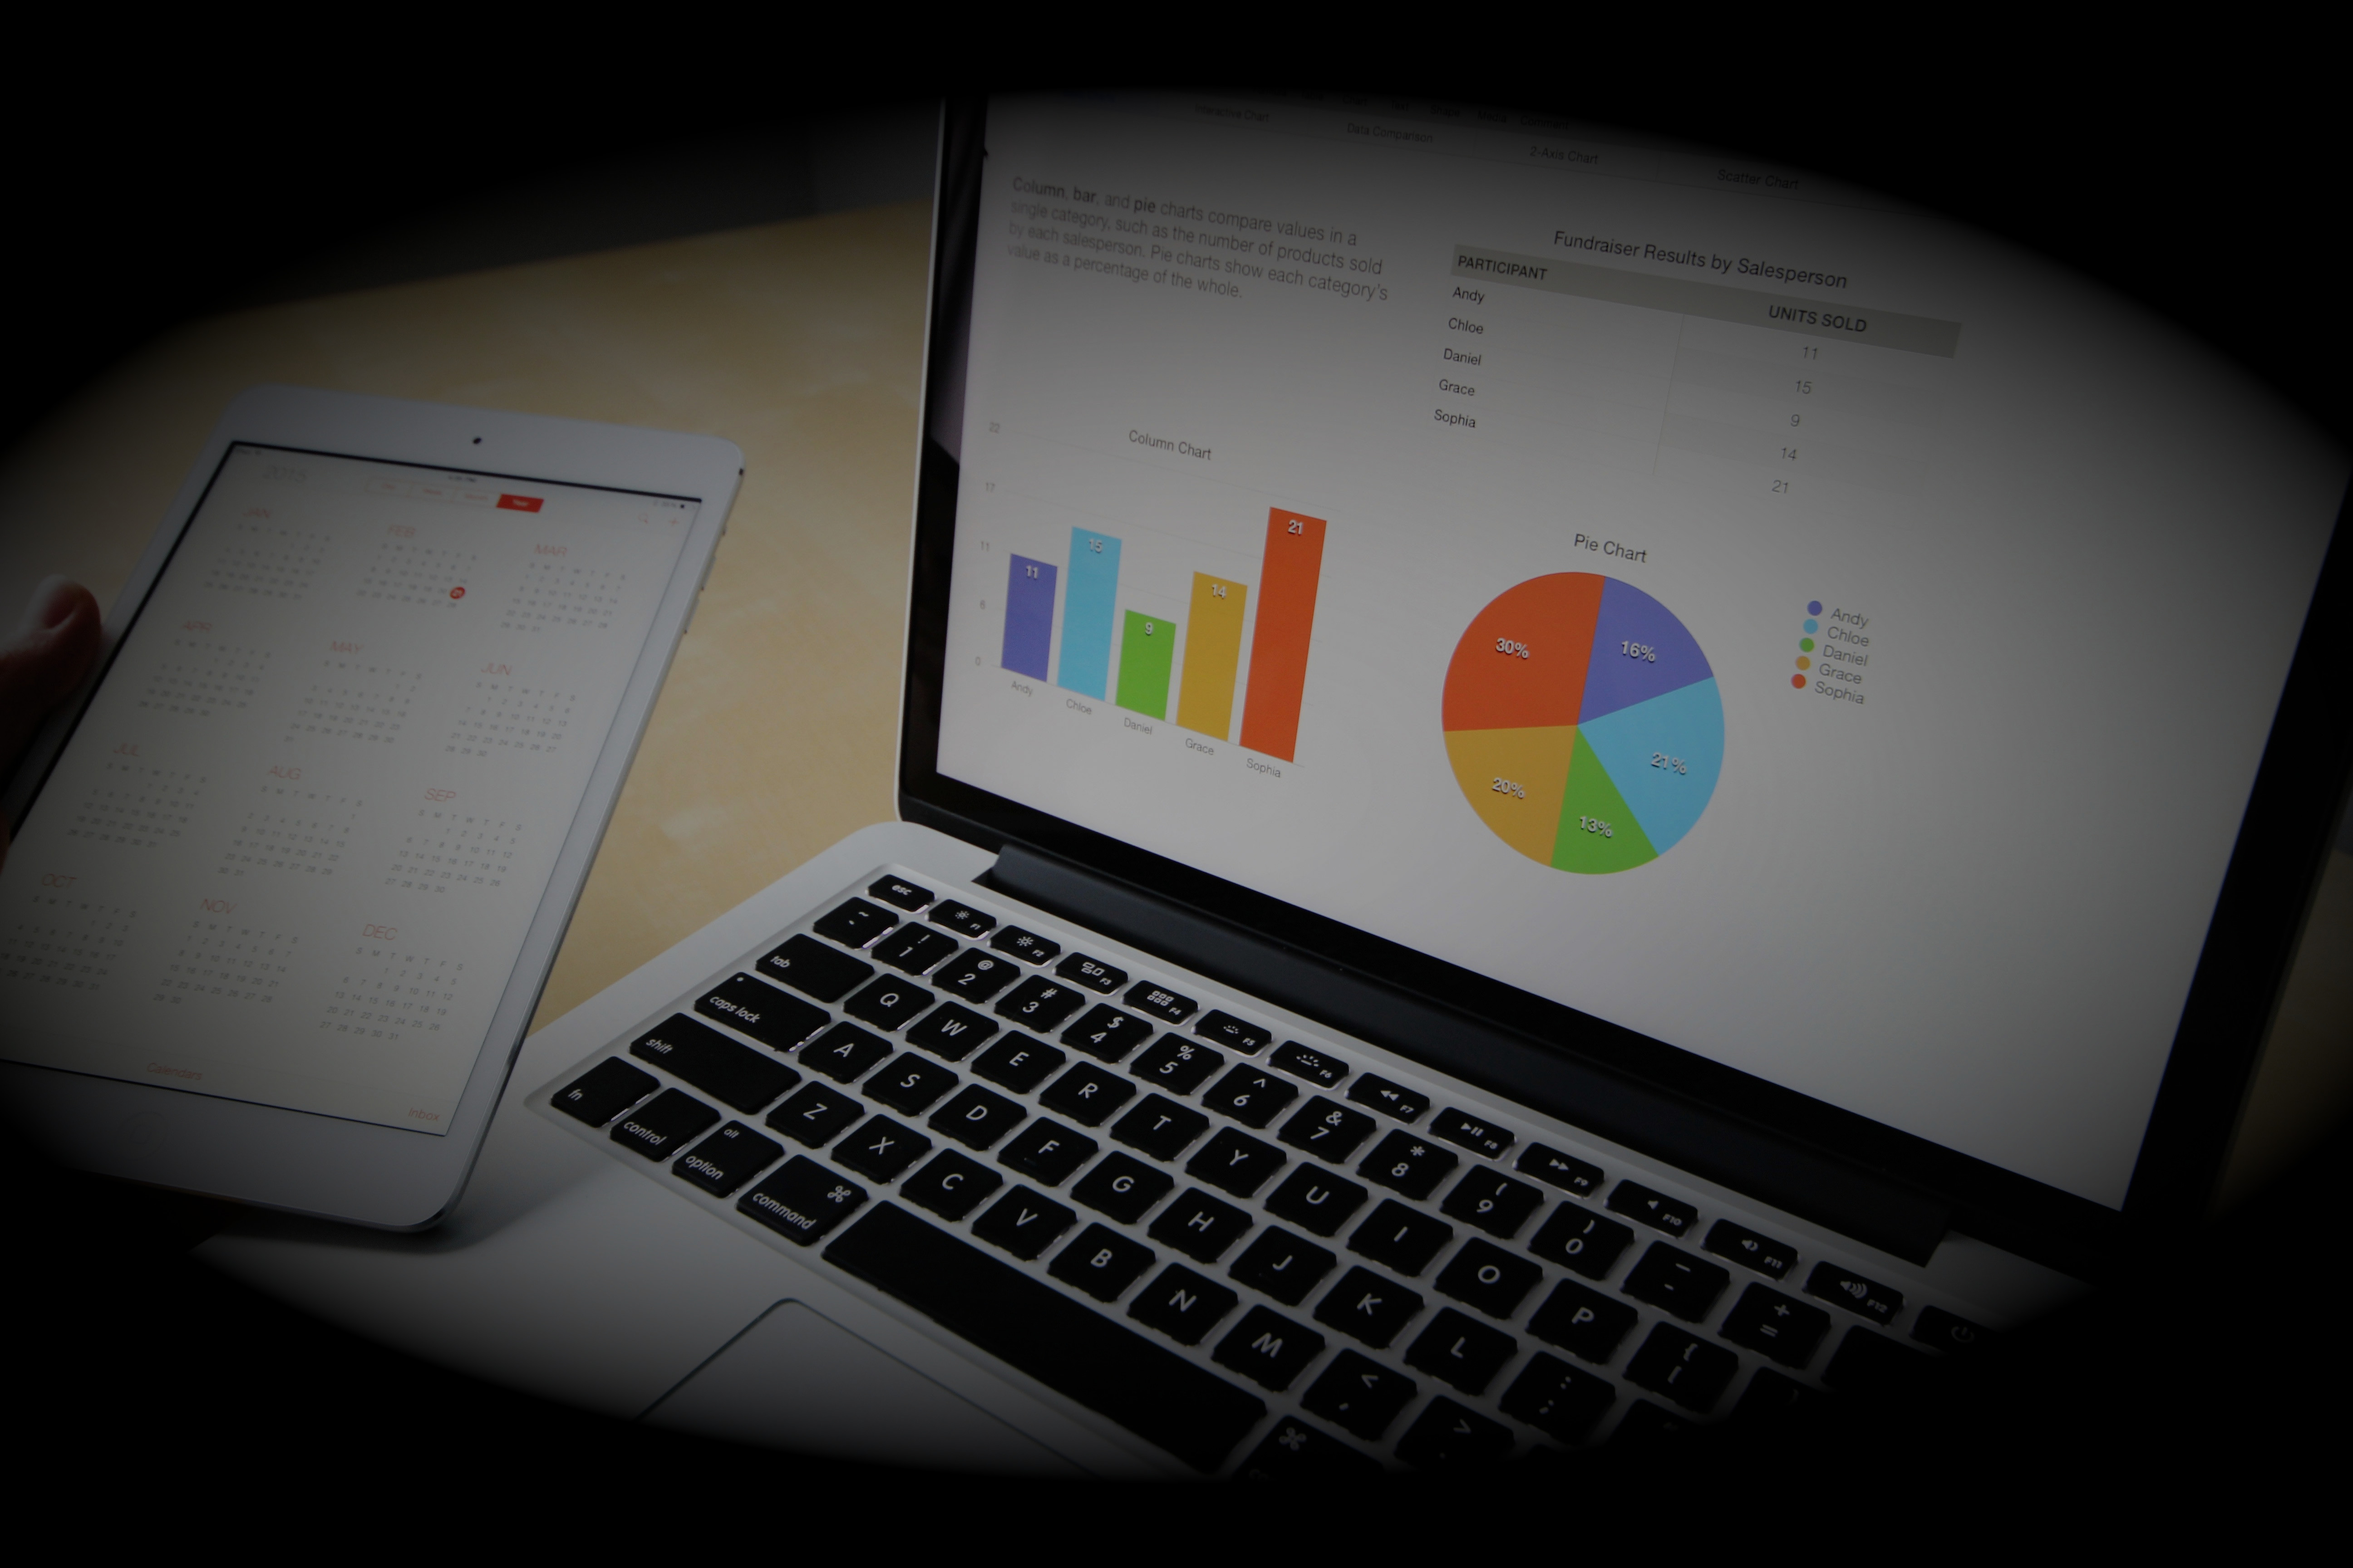
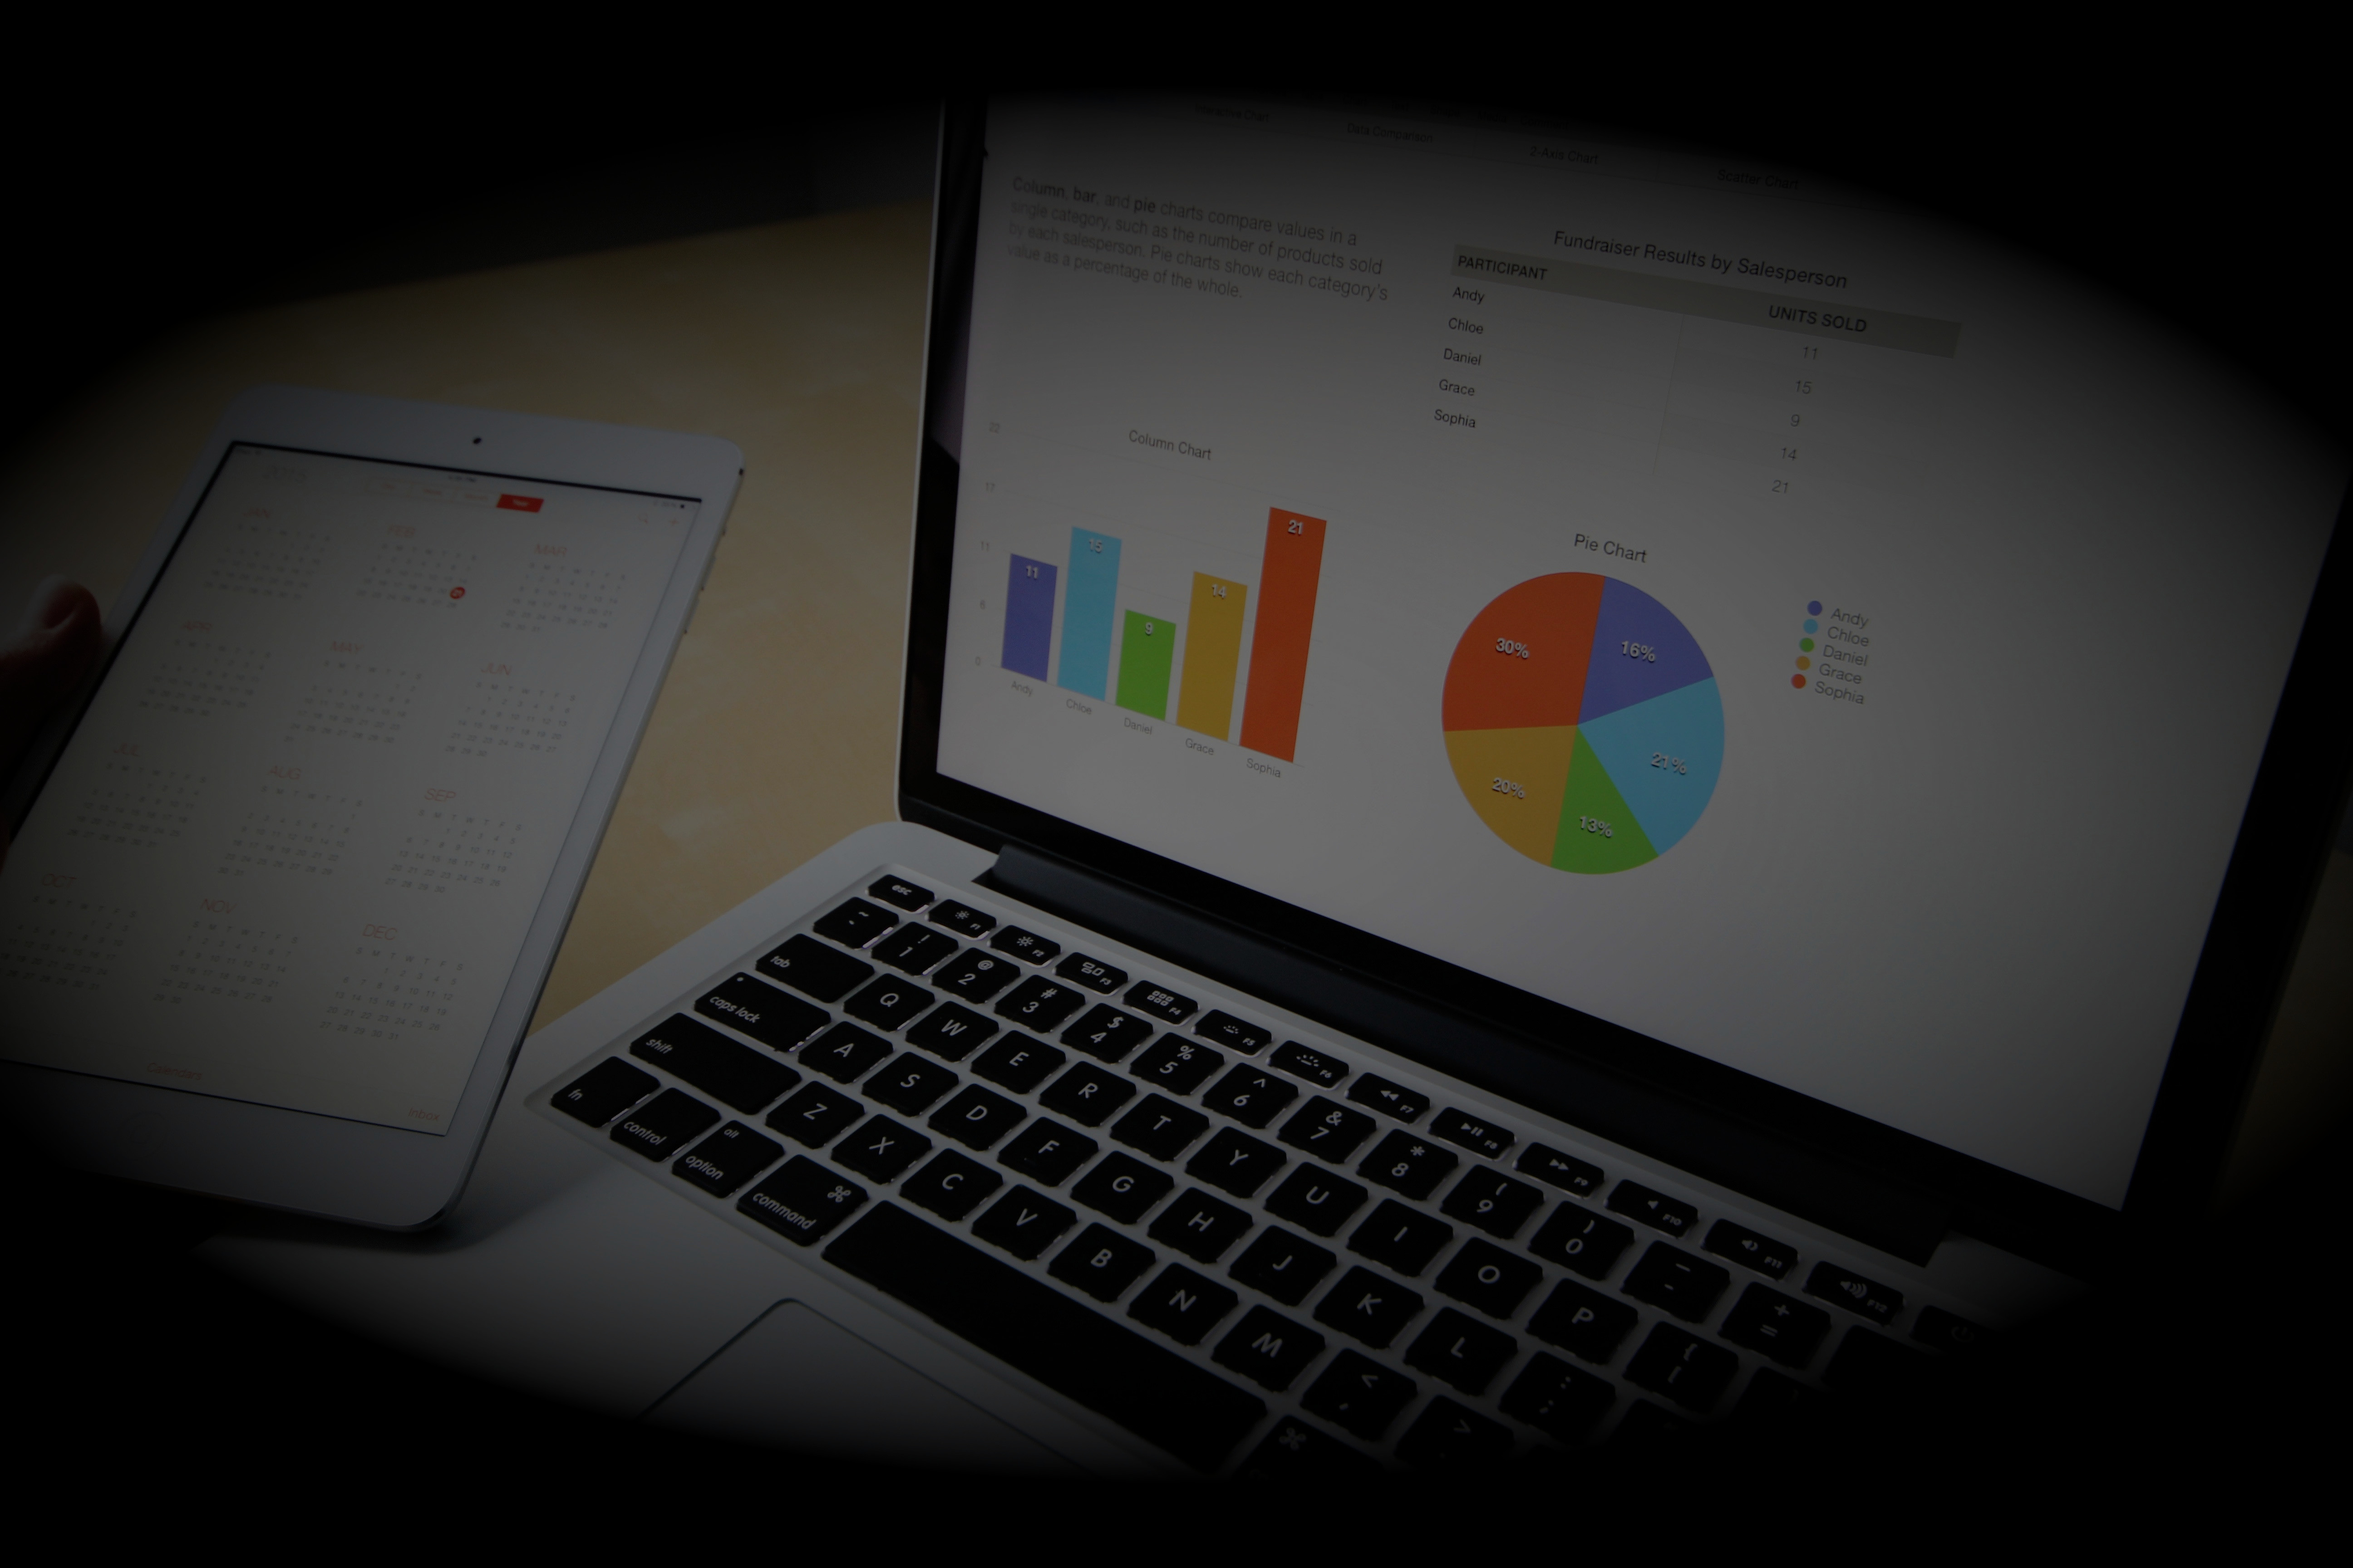
Darker bg

diff --git a/src/static/css/style.css b/src/static/css/style.css
@@ -47,7 +47,7 @@
 .body-container::before {
     content: "";
     background: url("../images/bg.jpg") no-repeat center center/cover;
-    background-position: bottom;
+    background-position: center;
     position: absolute;
     margin: 0;
     top: 0;
